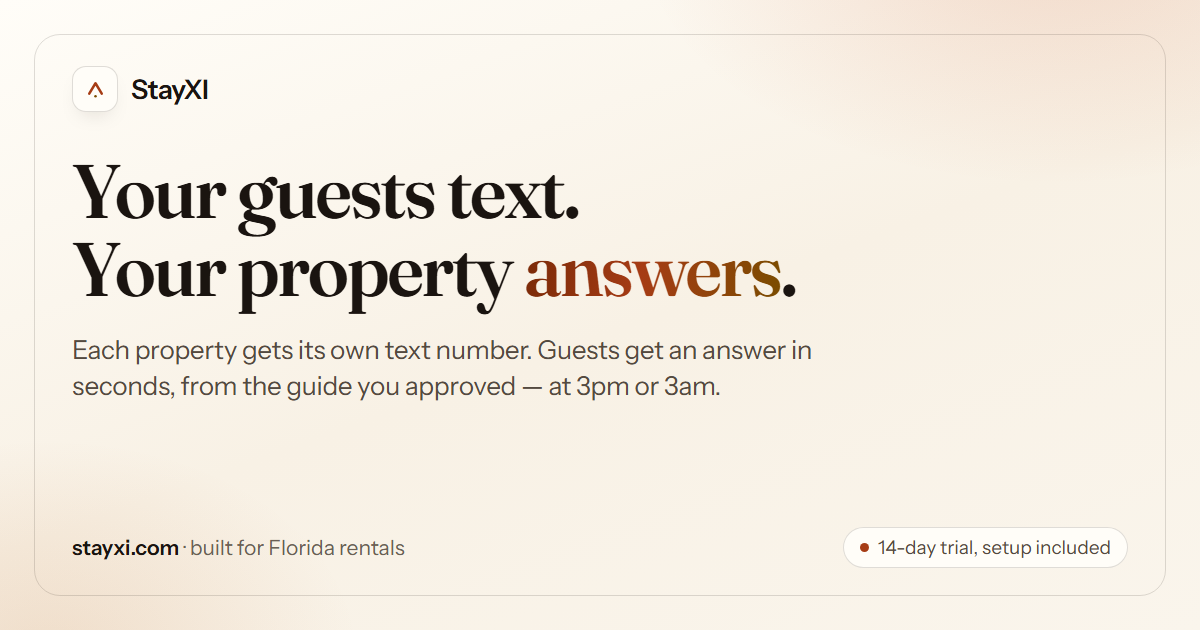
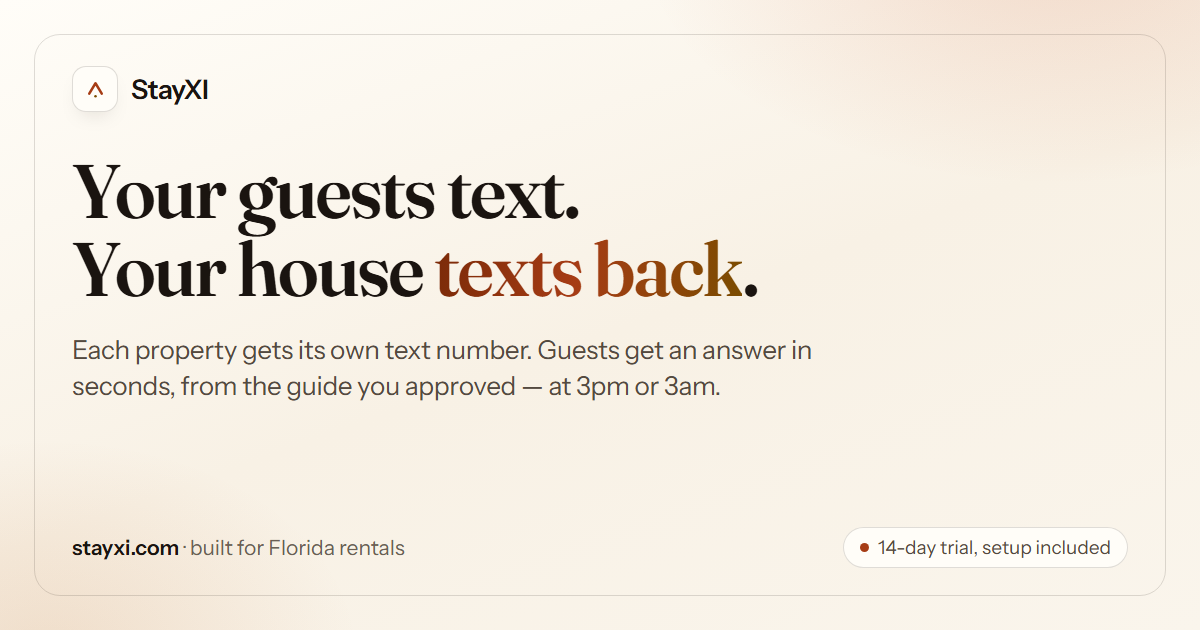
Say what actually happens: the house texts back
"Your property answers" read as a noun doing a verb and buried the one thing
that makes the product different — that the reply comes back on the same thread
the guest started. "Your house texts back" keeps the parallel with the first
line and is concrete enough to picture.

🤖 Generated with Codebuff

Changed region(s): [[0.185, 0.3619, 0.6783, 0.5127]]

diff --git a/site/index.html b/site/index.html
@@ -109,7 +109,7 @@
             </svg>
           </a>
 
-          <h1 class="rise" style="--delay:.1s">Your guests text.<br class="hero-br"> Your property <span class="text-gradient">answers</span></h1>
+          <h1 class="rise" style="--delay:.1s">Your guests text.<br class="hero-br"> Your house <span class="text-gradient">texts back</span></h1>
 
           <p class="hero-lede rise" style="--delay:.2s">Each property gets its own text number. Guests ask about the <span class="nw">Wi-Fi</span>, the lockbox, the trash or the parking and get an answer in seconds, from the guide you approved — at 3pm or 3am. Only what genuinely needs a human reaches your phone.</p>
 
